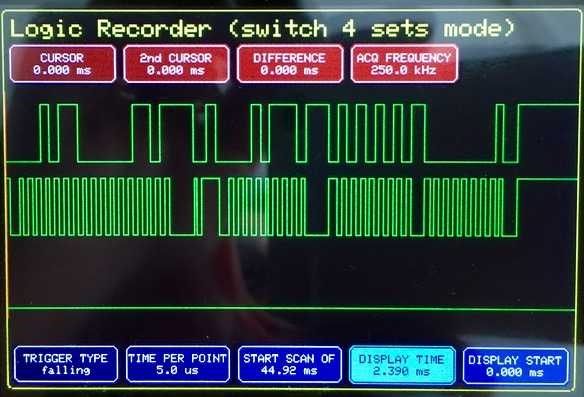
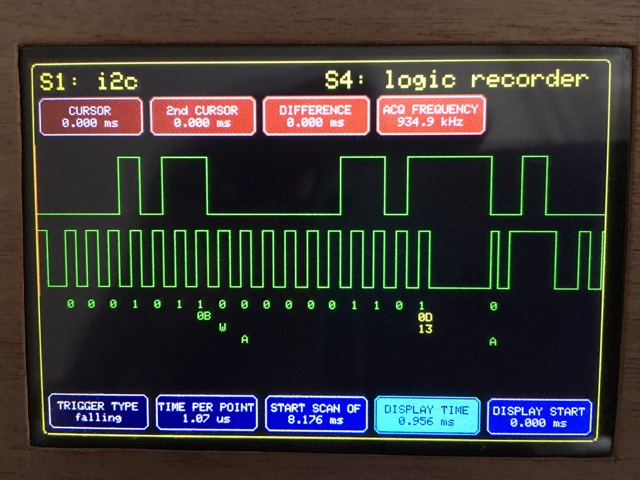
i2c mode, digital up to 900 kz

diff --git a/README.md b/README.md
@@ -3,8 +3,8 @@
 How fast can you record data with an Arduino Mega 2560 ?
 
 This sketch uses direct port read and bit manipulations to record either
-- 4 digital channels at a maximum speed of 250 kHz (8604 data points) 
-- 1 analog channel (8 bits) at a maximum speed of 40 kHz (4302 data points)
+- 4 digital channels at a maximum speed of approx. 900 kHz (7644 data points) 
+- 1 analog channel (8 bits) at a maximum speed of 40 kHz (3822 data points)
 
 The data is displayed and manipulated on a touch tft screen.
 
@@ -26,7 +26,7 @@ but not dispayed. The program sets these pins to INPUT_PULLUP.
 and pin 4 for CARD_CS
 - The Touch pannel uses pin A2 for YP, pin A3 for XM, pin 7 for YM and pin 8 for XP
 - The rotary encoder uses pin 23 for CHA, 25 for CHB and 27 for the switch
-- A switch to select analog or digital mode is hooked to pin 28
+- 4 switches hooked to pin 26, 24, 22, 28 
 
 Using the sketch:
 - Set the switch to analog or digial mode.
